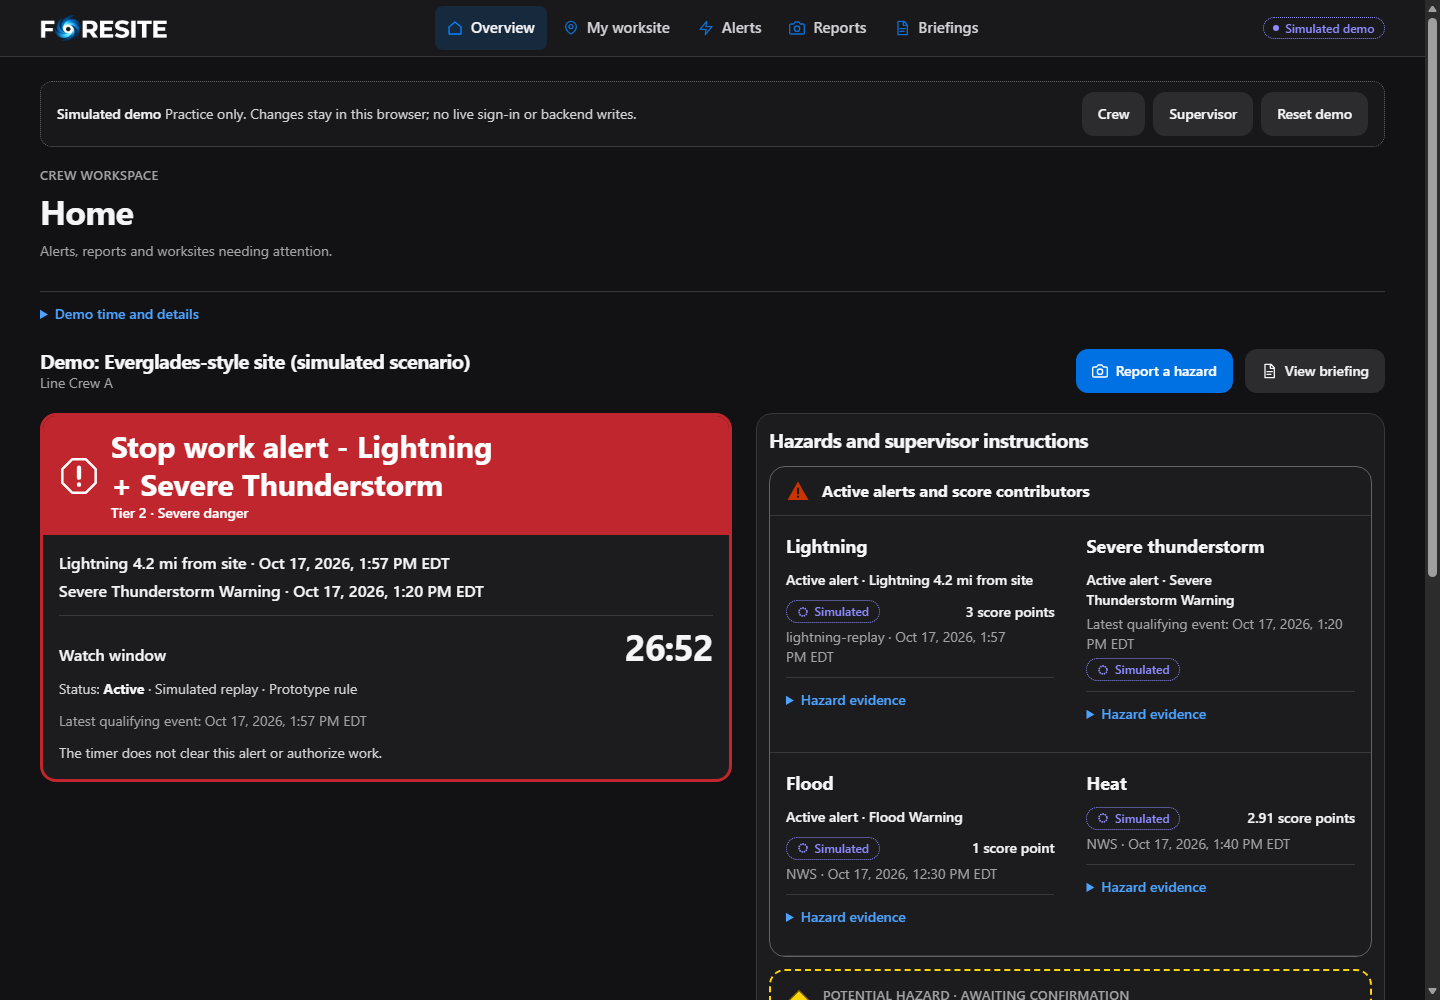
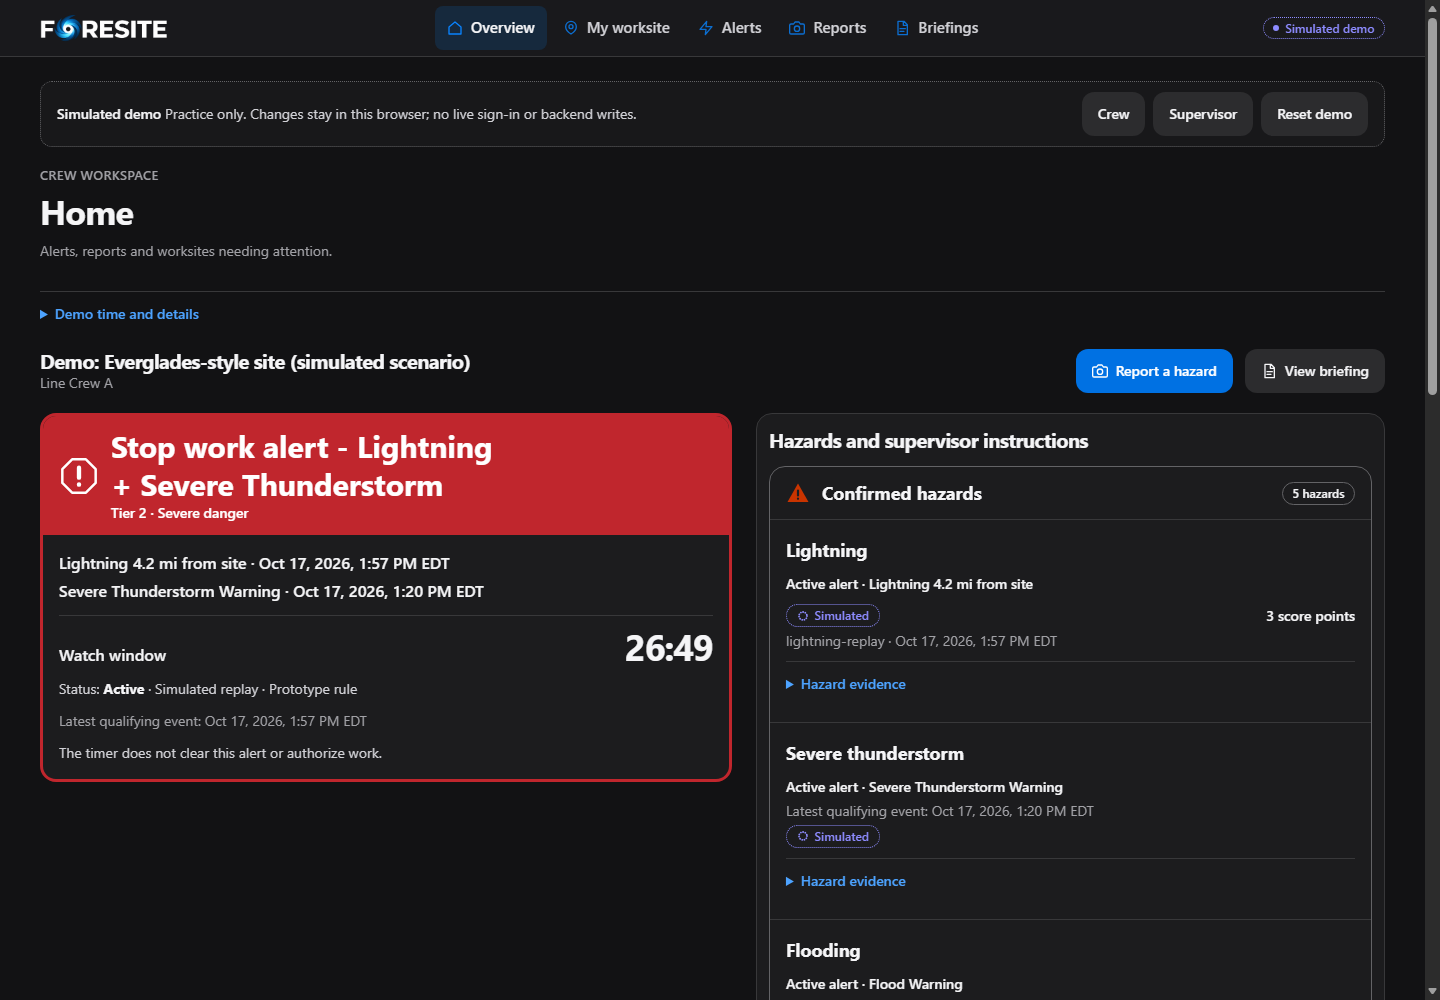
Keep species provenance with Local species above the habitat map

diff --git a/frontend/src/components/data/SpeciesPanel.tsx b/frontend/src/components/data/SpeciesPanel.tsx
@@ -88,6 +88,21 @@ export function SpeciesPanel({
   const unavailable = context.data_state === 'unavailable'
   return (
     <div className="space-y-4">
+      <div data-species-provenance>
+        <Details title="Species sources and coverage">
+          <p className="flex flex-wrap items-center gap-2 text-xs text-muted">
+            <Status state={context.data_state} />
+            <span>Source: {context.source}</span>
+            {context.simulated && <span>Recorded demo snapshot</span>}
+            <span>Retrieved <Timestamp value={context.fetched_at} /></span>
+          </p>
+          <p>{context.caveat}</p>
+          <p>{context.footprint_description}</p>
+          <p>Wording: {context.generated_by === 'gemini'
+            ? (context.simulated ? 'recorded Gemini response, checked line by line against the sources below' : 'Gemini, checked line by line against the sources below')
+            : 'deterministic template'}.</p>
+        </Details>
+      </div>
       {/* "Not a sighting" is labeled on each species row and in the sources disclosure. */}
       <WildlifeReports reports={context.wildlife_reports} />
 
@@ -113,22 +128,6 @@ export function SpeciesPanel({
       )}
 
       <HabitatMap context={context} site={site} other={otherHabitat} />
-
-      <footer className="border-t border-line pt-3 text-xs text-muted">
-        <p className="flex flex-wrap items-center gap-2">
-          <Status state={context.data_state} />
-          <span>Source: {context.source}</span>
-          {context.simulated && <span>Recorded demo snapshot</span>}
-          <span>Retrieved <Timestamp value={context.fetched_at} /></span>
-        </p>
-        <Details title="Species sources and coverage">
-          <p>{context.caveat}</p>
-          <p>{context.footprint_description}</p>
-          <p>Wording: {context.generated_by === 'gemini'
-            ? (context.simulated ? 'recorded Gemini response, checked line by line against the sources below' : 'Gemini, checked line by line against the sources below')
-            : 'deterministic template'}.</p>
-        </Details>
-      </footer>
     </div>
   )
 }

diff --git a/PROJECT_CONTEXT.md b/PROJECT_CONTEXT.md
@@ -5,7 +5,8 @@ Read this index first, then AGENTS.md, spec.md, tasks.md and relevant source. Ve
 ## Unified confirmed hazards - 2026-10-18
 - User follow-up on PR80, branch `feature/cache-unified-confirmed-hazards` from main `8cc25ff`: one Confirmed hazards list combines alerts, positive score contributors and supervisor-confirmed notices. Flood/Flooding share a row with points, duration and instructions; Flash Flood stays separate. Unknown notice types keep distinct IDs and every instruction is retained.
 - `SiteHazards` now owns the existing notice workflow; pending notices stay outside the confirmed list. Confirmed notice content is embedded inline, including the confirming supervisor's editor. A page-local draft cache preserves input when confirmation moves a pending notice into its merged row during refresh. Source states and backend permissions/scores/alerts are unchanged.
-- 197 frontend tests, lint/TypeScript and live/demo production builds pass. Full browser acceptance is being completed before publishing. [Current guide](docs/CREW_RESPONSIVE_LAYOUT.md). No task checkboxes, backend/auth/contracts/fixtures/models or other worktrees changed.
+- Follow-up: species attribution previously appeared as an isolated Observed/source/time footer below the habitat map. It now lives in the Species sources and coverage disclosure under Local species; source state/time/caveats and map attribution remain intact.
+- 198 frontend tests, lint/TypeScript and live/demo builds pass. Development and built-demo browser workflows and 40 focused cases pass for the unified list; the species placement regression is being verified before publishing. Reconciled main `c285cf5` in `e96b190`, preserving read-only guest/demo changes and both project-context entries. [Current guide](docs/CREW_RESPONSIVE_LAYOUT.md). No task checkboxes, backend/auth/contracts/fixtures/models or other worktrees changed by this feature.
 
 ## Try demo: read-only guest access to the demo sites - 2026-10-18
 - Braydin request (frontend edits in Rudra's lane authorized; logged in `docs/CROSS_SCOPE_CHANGES.md`). The landing page's "Try a demo" button opens `/?demo#/crew/overview`: the server's live demo sites, read-only, no sign-in, with Crew/Supervisor buttons on the page.

diff --git a/docs/CREW_RESPONSIVE_LAYOUT.md b/docs/CREW_RESPONSIVE_LAYOUT.md
@@ -31,9 +31,13 @@ data, permissions and actions across screen sizes.
   notices remain outside the list; rejected, absent and missing reports are excluded.
   A page-local cache preserves supervisor drafts when confirmation moves a notice
   into its merged row during refresh. Existing owner/role checks still control sending.
+- Species source, state and retrieval time are contained in **Species sources and
+  coverage** under Local species. No detached USFWS status footer sits below the habitat
+  map. Regional-context caveats, unavailable states and map attribution remain intact.
 
 [Home desktop](crew-desktop.png) ? [Home phone](crew-mobile.png) ?
 [Expanded worksite](worksite-expanded.png) ? [Full-width alerts](alerts-full-width.png)
+[Unified hazards on phone](confirmed-hazards-mobile.png).
 
 ## Review locally
 
@@ -60,13 +64,13 @@ research/historical limitations remain available with their associated evidence.
 
 Focused browser checks cover 40 role/page cases at 320/390/768/1024/1280/1440/1920/2560,
 with zero horizontal overflow, exceptions or real backend calls and score/weather card
-top alignment within 1px at desktop widths. Unit count: 197.
+top alignment within 1px at desktop widths. Unit count: 198.
 Lint, TypeScript, default/live and explicit-demo production builds and the complete
 development/built-demo browser workflow suites also pass.
-139 focused backend scoring, confirmed-report, lightning/stop-work and TypeScript
-mirror checks pass. Implemented in `3124b74`; reconciliation `e1f6fb8` preserves
-main `ce3292b` / PR79 without conflicts.
-[Review branch](https://github.com/BraydinPG/planit-control-swamphacks/compare/main...feature/cache-worksite-hazard-evidence).
+Unified-list implementation `2d293fb` and `d82a30f`; reconciliation `e96b190`
+preserves main `c285cf5` / read-only guests. The prior PR80 baseline also passed
+139 backend score/report/lightning/contract checks; this feature changes no backend code.
+[Review branch](https://github.com/BraydinPG/planit-control-swamphacks/compare/main...feature/cache-unified-confirmed-hazards).
 Existing bundle-size warnings remain; browser evidence is demo/mocked verification,
 not live Auth0/Tiger Data or operational safety acceptance.
 

diff --git a/docs/CROSS_SCOPE_CHANGES.md b/docs/CROSS_SCOPE_CHANGES.md
@@ -15,10 +15,17 @@ row move during a GET refresh; successful sends discard the cached draft. No aut
 scoring/alert logic, API contract, fixture, model, task checkbox or external service
 change. Rudra should preserve this composition during future UI work.
 
-197 frontend tests, lint/TypeScript and live/demo production builds pass. Browser
-acceptance is being completed before publication; see the current layout guide for
-final verification. Initial full-browser run hit a CDP navigation timeout without
-browser exceptions or failed API requests; it is being rerun independently.
+User follow-up moves the detached USFWS Observed/source/time footer from below the
+habitat map into Species sources and coverage under Local species. All metadata,
+regional-context caveats and map attribution remain. `SpeciesPanel.tsx`, its existing
+unit test and the browser regression now verify this placement.
+
+198 frontend tests, lint/TypeScript and live/demo builds pass. Development/built-demo
+workflows and 40 focused cases pass for the unified list; species placement is being
+verified before publication. An initial CDP navigation timeout did not recur after
+restarting only this checkout's owned preview. Reconciled main `c285cf5` in `e96b190`;
+the sole context-document conflict preserves both entries and the read-only guest
+feature. Final results are in the current layout guide.
 
 ## Worksite alignment and hazard evidence (Cache for Rudra) - 2026-10-18 06:46 UTC
 
